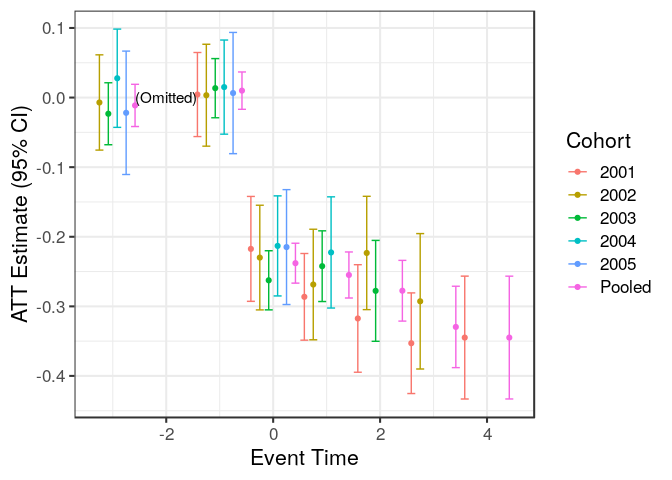
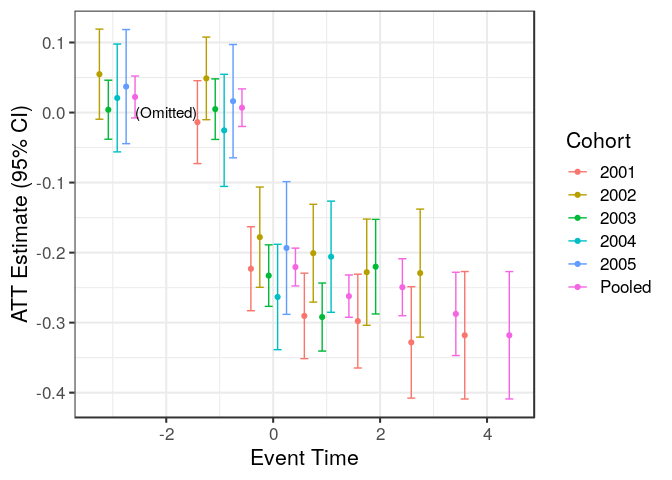
Edits to documentation

diff --git a/README.md b/README.md
@@ -85,18 +85,18 @@ sim_data <- ES_simulate_data(units = 1000)[["observed"]]
 sim_data[]
 ```
 
-    ##       individual year treatment_year     outcome
-    ##    1:          1 1999           2005 0.811351216
-    ##    2:          1 2000           2005 1.095756705
-    ##    3:          1 2001           2005 0.870474806
-    ##    4:          1 2002           2005 0.829629576
-    ##    5:          1 2003           2005 0.723766119
-    ##   ---                                           
-    ## 6996:       1000 2001           2003 0.677456779
-    ## 6997:       1000 2002           2003 0.910380468
-    ## 6998:       1000 2003           2003 0.620562946
-    ## 6999:       1000 2004           2003 0.008933491
-    ## 7000:       1000 2005           2003 0.495212029
+    ##       individual year treatment_year   outcome
+    ##    1:          1 1999           2003 0.8141879
+    ##    2:          1 2000           2003 0.8703408
+    ##    3:          1 2001           2003 0.7651807
+    ##    4:          1 2002           2003 0.9349418
+    ##    5:          1 2003           2003 0.4439295
+    ##   ---                                         
+    ## 6996:       1000 2001           2003 1.0030966
+    ## 6997:       1000 2002           2003 0.7616094
+    ## 6998:       1000 2003           2003 0.8115637
+    ## 6999:       1000 2004           2003 0.5377100
+    ## 7000:       1000 2005           2003 0.4799415
 
 In this data, the treatment is received in the year given by the `treatment_year` variable. The other variables are `individual`, `year`, and `outcome`. We wish to perform an event study to understand the effect of this treatment on this outcome.
 
@@ -125,12 +125,12 @@ results <- ES(long_data=sim_data, outcomevar="outcome",
               onset_time_var="treatment_year", cluster_vars="individual")
 ```
 
-    ## INFO [2019-02-11 14:04:44] Beginning ES.
-    ## INFO [2019-02-11 14:04:44] Beginning data stacking.
-    ## INFO [2019-02-11 14:05:03] Successfully produced a stacked dataset with 28,928 rows.
-    ## INFO [2019-02-11 14:05:04] Estimated heterogeneous case with OLS.
-    ## INFO [2019-02-11 14:05:04] Estimated homogeneous case with OLS.
-    ## INFO [2019-02-11 14:05:04] ES is finished.
+    ## INFO [2019-02-11 14:27:24] Beginning ES.
+    ## INFO [2019-02-11 14:27:24] Beginning data stacking.
+    ## INFO [2019-02-11 14:27:43] Successfully produced a stacked dataset with 27,992 rows.
+    ## INFO [2019-02-11 14:27:44] Estimated heterogeneous case with OLS.
+    ## INFO [2019-02-11 14:27:44] Estimated homogeneous case with OLS.
+    ## INFO [2019-02-11 14:27:44] ES is finished.
 
 ### Example 2. Estimation using only control cohorts that receive treatment at certain times in the future
 
@@ -144,12 +144,12 @@ results2 <- ES(long_data=sim_data, outcomevar="outcome",
                min_control_gap = 3, max_control_gap = 5, anticipation = 1)
 ```
 
-    ## INFO [2019-02-11 14:05:04] Beginning ES.
-    ## INFO [2019-02-11 14:05:04] Beginning data stacking.
-    ## INFO [2019-02-11 14:05:15] Successfully produced a stacked dataset with 11,967 rows.
-    ## INFO [2019-02-11 14:05:15] Estimated heterogeneous case with OLS.
-    ## INFO [2019-02-11 14:05:15] Estimated homogeneous case with OLS.
-    ## INFO [2019-02-11 14:05:15] ES is finished.
+    ## INFO [2019-02-11 14:27:44] Beginning ES.
+    ## INFO [2019-02-11 14:27:44] Beginning data stacking.
+    ## INFO [2019-02-11 14:27:54] Successfully produced a stacked dataset with 11,834 rows.
+    ## INFO [2019-02-11 14:27:55] Estimated heterogeneous case with OLS.
+    ## INFO [2019-02-11 14:27:55] Estimated homogeneous case with OLS.
+    ## INFO [2019-02-11 14:27:55] ES is finished.
 
 ### Example 3. Estimation using only never-winners as the control group
 
@@ -158,7 +158,10 @@ Let's generate some never-winners by re-coding some of the onset times as missin
 ``` r
 # coding some observations as never-winners
 sim_data2 <- copy(sim_data)
-sim_data2[runif(nrow(sim_data)) < .5, treatment_year := NA]
+unit_var = "individual"
+onset_time_var = "treatment_year"
+sim_data2[, recode := runif(1, min = 0, max = 1), list(get(unit_var))]
+sim_data2[recode < 0.10, (onset_time_var) := NA]
 ```
 
 ``` r
@@ -169,12 +172,12 @@ results3 <- ES(long_data=sim_data2, outcomevar="outcome",
                never_treat_action = "only")
 ```
 
-    ## INFO [2019-02-11 14:05:16] Beginning ES.
-    ## INFO [2019-02-11 14:05:16] Beginning data stacking.
-    ## INFO [2019-02-11 14:05:35] Successfully produced a stacked dataset with 35,595 rows.
-    ## INFO [2019-02-11 14:05:36] Estimated heterogeneous case with OLS.
-    ## INFO [2019-02-11 14:05:36] Estimated homogeneous case with OLS.
-    ## INFO [2019-02-11 14:05:36] ES is finished.
+    ## INFO [2019-02-11 14:27:55] Beginning ES.
+    ## INFO [2019-02-11 14:27:55] Beginning data stacking.
+    ## INFO [2019-02-11 14:28:15] Successfully produced a stacked dataset with 17,148 rows.
+    ## INFO [2019-02-11 14:28:15] Estimated heterogeneous case with OLS.
+    ## INFO [2019-02-11 14:28:16] Estimated homogeneous case with OLS.
+    ## INFO [2019-02-11 14:28:16] ES is finished.
 
 ### Example 4. Estimation using only control cohorts that satisfy a condition at an event time
 
@@ -195,12 +198,12 @@ results4 <- ES(long_data=sim_data, outcomevar="outcome",
                control_subset_var="valid_control", control_subset_event_time=-1)
 ```
 
-    ## INFO [2019-02-11 14:05:36] Beginning ES.
-    ## INFO [2019-02-11 14:05:36] Beginning data stacking.
-    ## INFO [2019-02-11 14:05:56] Successfully produced a stacked dataset with 19,600 rows.
-    ## INFO [2019-02-11 14:05:57] Estimated heterogeneous case with OLS.
-    ## INFO [2019-02-11 14:05:57] Estimated homogeneous case with OLS.
-    ## INFO [2019-02-11 14:05:57] ES is finished.
+    ## INFO [2019-02-11 14:28:16] Beginning ES.
+    ## INFO [2019-02-11 14:28:16] Beginning data stacking.
+    ## INFO [2019-02-11 14:28:36] Successfully produced a stacked dataset with 19,478 rows.
+    ## INFO [2019-02-11 14:28:36] Estimated heterogeneous case with OLS.
+    ## INFO [2019-02-11 14:28:37] Estimated homogeneous case with OLS.
+    ## INFO [2019-02-11 14:28:37] ES is finished.
 
 ### Example 5. Removing linear deviations from parallel trends
 
@@ -214,13 +217,13 @@ results5 <- ES(long_data=sim_data, outcomevar="outcome",
                linearize_pretrends = TRUE)
 ```
 
-    ## INFO [2019-02-11 14:05:57] Beginning ES.
-    ## INFO [2019-02-11 14:05:57] Linearizing pre-trends.
-    ## INFO [2019-02-11 14:05:58] Beginning data stacking.
-    ## INFO [2019-02-11 14:06:17] Successfully produced a stacked dataset with 28,928 rows.
-    ## INFO [2019-02-11 14:06:18] Estimated heterogeneous case with OLS.
-    ## INFO [2019-02-11 14:06:18] Estimated homogeneous case with OLS.
-    ## INFO [2019-02-11 14:06:18] ES is finished.
+    ## INFO [2019-02-11 14:28:37] Beginning ES.
+    ## INFO [2019-02-11 14:28:37] Linearizing pre-trends.
+    ## INFO [2019-02-11 14:28:37] Beginning data stacking.
+    ## INFO [2019-02-11 14:28:57] Successfully produced a stacked dataset with 27,992 rows.
+    ## INFO [2019-02-11 14:28:57] Estimated heterogeneous case with OLS.
+    ## INFO [2019-02-11 14:28:58] Estimated homogeneous case with OLS.
+    ## INFO [2019-02-11 14:28:58] ES is finished.
 
 ### Example 6. Residualzing on covariates where some are discrete and some are continuous
 
@@ -248,13 +251,13 @@ results6 <- ES(long_data=sim_data, outcomevar="outcome",
                cont_covars = c('cont_covar1','cont_covar2'))
 ```
 
-    ## INFO [2019-02-11 14:06:18] Beginning ES.
-    ## INFO [2019-02-11 14:06:18] Residualizing on covariates.
-    ## INFO [2019-02-11 14:06:19] Beginning data stacking.
-    ## INFO [2019-02-11 14:06:38] Successfully produced a stacked dataset with 28,928 rows.
-    ## INFO [2019-02-11 14:06:39] Estimated heterogeneous case with OLS.
-    ## INFO [2019-02-11 14:06:39] Estimated homogeneous case with OLS.
-    ## INFO [2019-02-11 14:06:39] ES is finished.
+    ## INFO [2019-02-11 14:28:58] Beginning ES.
+    ## INFO [2019-02-11 14:28:58] Residualizing on covariates.
+    ## INFO [2019-02-11 14:28:58] Beginning data stacking.
+    ## INFO [2019-02-11 14:29:18] Successfully produced a stacked dataset with 27,992 rows.
+    ## INFO [2019-02-11 14:29:19] Estimated heterogeneous case with OLS.
+    ## INFO [2019-02-11 14:29:19] Estimated homogeneous case with OLS.
+    ## INFO [2019-02-11 14:29:19] ES is finished.
 
 ### Example 7. Filling in missing rows with zeros.
 
@@ -274,13 +277,13 @@ results7 <- ES(long_data=sim_data, outcomevar="outcome",
                fill_zeros = TRUE)
 ```
 
-    ## INFO [2019-02-11 14:06:39] Beginning ES.
-    ## INFO [2019-02-11 14:06:39] Filling in zeros.
-    ## INFO [2019-02-11 14:06:40] Beginning data stacking.
-    ## INFO [2019-02-11 14:06:59] Successfully produced a stacked dataset with 28,928 rows.
-    ## INFO [2019-02-11 14:07:00] Estimated heterogeneous case with OLS.
-    ## INFO [2019-02-11 14:07:00] Estimated homogeneous case with OLS.
-    ## INFO [2019-02-11 14:07:00] ES is finished.
+    ## INFO [2019-02-11 14:29:19] Beginning ES.
+    ## INFO [2019-02-11 14:29:19] Filling in zeros.
+    ## INFO [2019-02-11 14:29:19] Beginning data stacking.
+    ## INFO [2019-02-11 14:29:39] Successfully produced a stacked dataset with 27,992 rows.
+    ## INFO [2019-02-11 14:29:40] Estimated heterogeneous case with OLS.
+    ## INFO [2019-02-11 14:29:40] Estimated homogeneous case with OLS.
+    ## INFO [2019-02-11 14:29:40] ES is finished.
 
 Note: This cannot be combined with residualizing on covariates, since ES would need to know how to fill in the covariates during the years that observations are missing.
 
